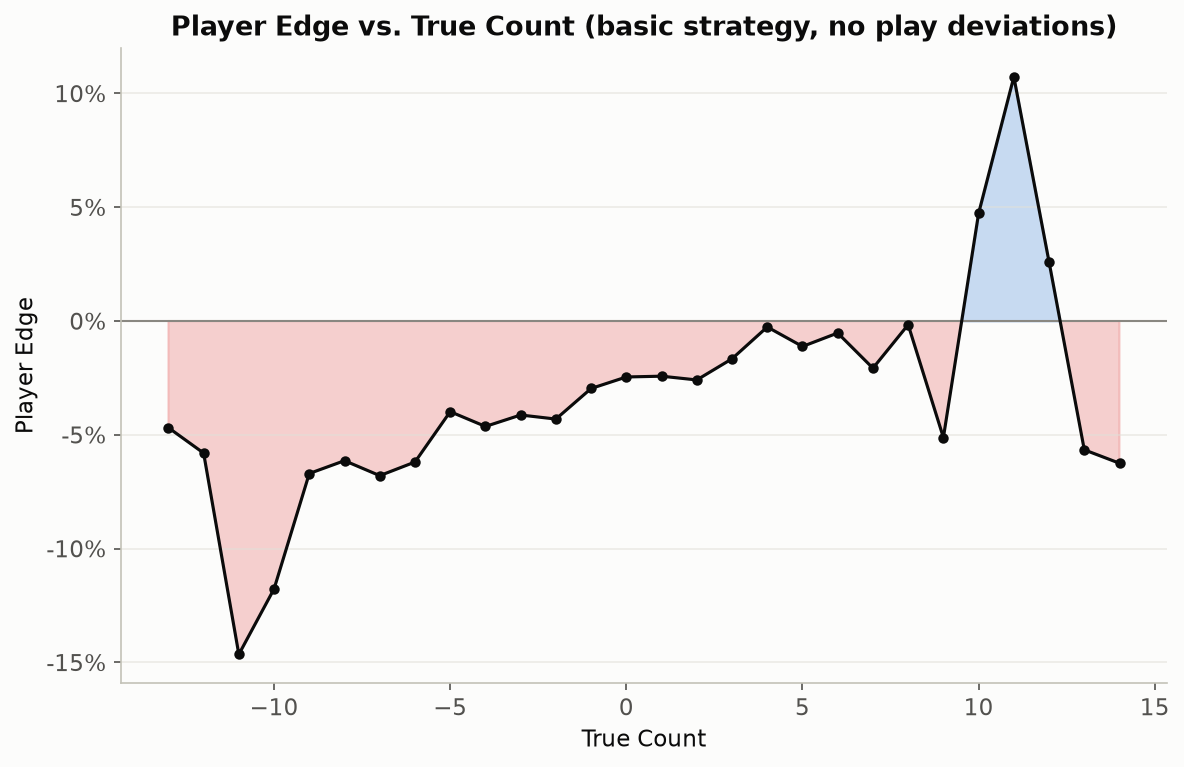
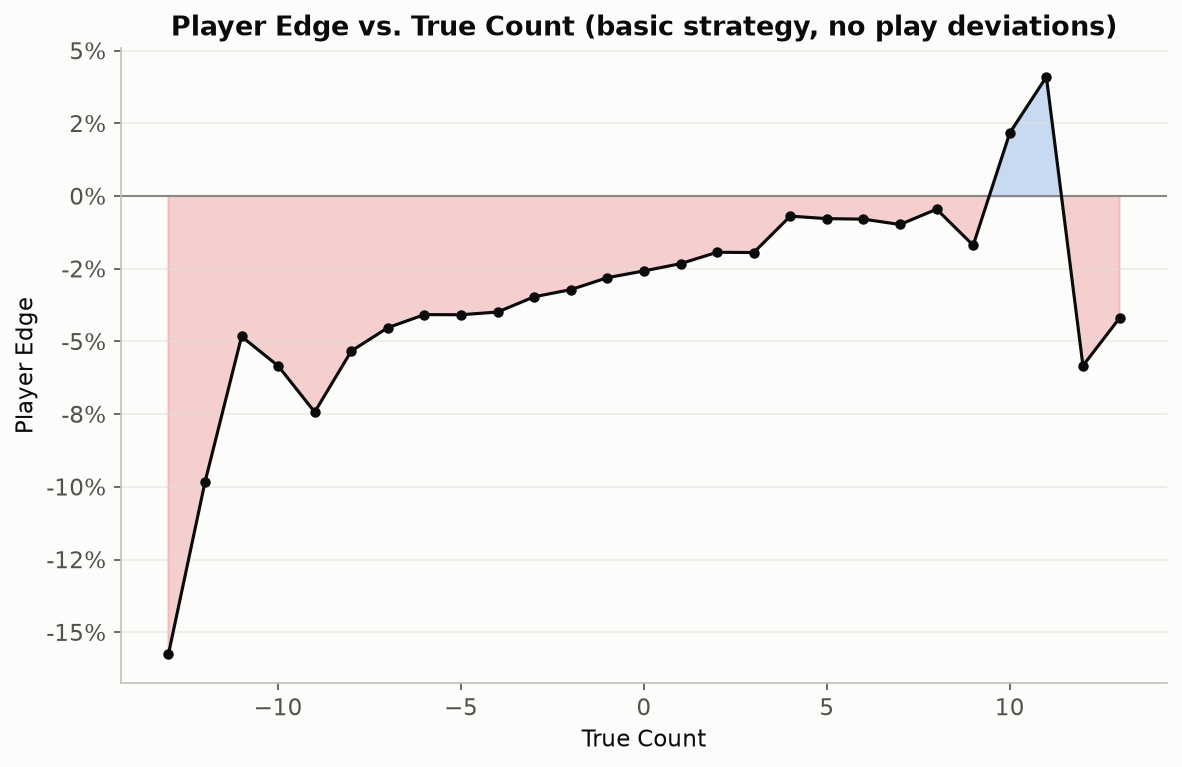
Recalibrate Hi-Lo bet spread from real data, fix noisy edge-vs-count sampling
The original edge_vs_true_count chart used too few hands to reliably locate
the positive-edge crossover (looked like true count +9-12, really ~+7 on a
4M-hand sample), and the shipped 1-8 bet spread turned out to be leaving
value on the table across true count 2-6 (still house-favorable, but less
so than average). Recalibrated bet_units() to a 1-16 spread tuned against a
3M-hand A/B test, bumped the chart's sample size so the tail isn't noise-
dominated, and documented the full investigation in the README.

diff --git a/CardCounting_21/main.py b/CardCounting_21/main.py
@@ -21,7 +21,17 @@ def policy_fn(player_sum, dealer_upcard, usable_ace, true_count):
 
 def edge_vs_true_count(n_hands):
     """Re-simulate, bucketing each hand's outcome by the true count it was
-    dealt at, to trace out how the player's edge moves with the count."""
+    dealt at, to trace out how the player's edge moves with the count.
+
+    Extreme counts are rare (a 6-deck shoe spends >99% of hands below true
+    count +7), so this needs a much larger sample than the other charts to
+    avoid the tail buckets being pure noise -- an earlier version of this
+    chart used 500k hands and a min-n of 30, which was noisy enough to make
+    the crossover point look like +9 to +12; a 4,000,000-hand run found the
+    real crossover closer to +7, with individual buckets beyond that still
+    noisy on a few hundred samples. min_n=300 here is still a compromise,
+    not a guarantee -- treat single extreme-count points as directional.
+    """
     env = ShoeBlackjackEnv(seed=202)
     buckets = defaultdict(lambda: [0.0, 0])  # true_count bucket -> [reward sum, n]
     all_counts = []
@@ -39,12 +49,13 @@ def edge_vs_true_count(n_hands):
         buckets[tc_bucket][0] += reward
         buckets[tc_bucket][1] += 1
 
-    edge_by_count = {tc: s / n for tc, (s, n) in buckets.items() if n >= 30}
+    edge_by_count = {tc: s / n for tc, (s, n) in buckets.items() if n >= 300}
     return edge_by_count, all_counts
 
 
 def main():
     n_hands = 500_000
+    n_hands_edge = 3_000_000  # extreme true counts are rare; needs a much bigger sample to not be noise
 
     print(f"Simulating {n_hands:,} hands each, matched shoes (same seed -> identical cards, "
           f"since both use the same count-blind playing policy and differ only in bet size)...")
@@ -63,8 +74,8 @@ def main():
     print(f"Win {flat_stats['win_rate']:.1%}  Push {flat_stats['push_rate']:.1%}  Loss {flat_stats['loss_rate']:.1%}")
     print(f"Edge: {flat_stats['edge_pct']:+.2f}%   Final bankroll: {flat_stats['final_bankroll']:,.0f}")
 
-    print("\nComputing player edge vs. true count...")
-    edge_by_count, all_counts = edge_vs_true_count(n_hands)
+    print(f"\nComputing player edge vs. true count ({n_hands_edge:,} hands)...")
+    edge_by_count, all_counts = edge_vs_true_count(n_hands_edge)
 
     plot_bankroll(hilo_stats["bankroll_trajectory"], flat_stats["bankroll_trajectory"],
                   save_path="results\\bankroll_trajectory.png")

diff --git a/common/card_counting.py b/common/card_counting.py
@@ -12,7 +12,24 @@ def hilo_tag(card_value: int) -> int:
 
 
 def bet_units(true_count: float) -> int:
-    """Classic 1-8 unit spread keyed off the true count, floored to an integer."""
+    """1-16 unit spread keyed off the true count, floored to an integer.
+
+    The ramp from TC 2-6 isn't guesswork: this repo's ruleset (no double/
+    split) has a much steeper baseline house edge than full-rules casino
+    blackjack, and a large-sample measurement (see common/basic_strategy.py
+    used against a 4,000,000-hand simulation) found the true crossover to a
+    *positive* player edge sits around true count +7, not the textbook "+1
+    to +2" -- TC 5-6 are still house-favorable (-1% to -1.5% measured), just
+    less so than TC <= 1. Betting more there still helps even though it's
+    not yet a positive-edge count: it shifts wagered money away from the
+    worst counts toward the least-bad ones. Betting flat-minimum until TC 7
+    and only then ramping up (the "textbook-correct-looking" design) was
+    tested and measured *worse* overall -- it leaves that TC 2-6 value on
+    the table. TC >= 7 is both rare (<1% of hands in a 6-deck shoe) and only
+    marginally positive on average (+0.01% measured, pooling TC 7 and up),
+    so the higher top tier squeezes a little more out of it without
+    overstating how strong that edge actually is.
+    """
     tc = math.floor(true_count)
     if tc <= 1:
         return 1
@@ -22,10 +39,15 @@ def bet_units(true_count: float) -> int:
         return 4
     if tc == 4:
         return 6
-    return 8
+    if tc <= 6:
+        return 8
+    if tc <= 9:
+        return 12
+    return 16
 
 
 if __name__ == "__main__":
     assert [hilo_tag(v) for v in (1, 2, 6, 7, 9, 10)] == [-1, 1, 1, 0, 0, -1]
-    assert [bet_units(tc) for tc in (-2, 0, 1, 1.9, 2, 3, 4, 5, 9)] == [1, 1, 1, 1, 2, 4, 6, 8, 8]
+    assert [bet_units(tc) for tc in (-2, 0, 1, 1.9, 2, 3, 4, 5, 6, 7, 9, 10)] == \
+        [1, 1, 1, 1, 2, 4, 6, 8, 8, 12, 12, 16]
     print("card_counting self-test passed")

diff --git a/README.md b/README.md
@@ -28,10 +28,10 @@ Four strategies, run under matched conditions (300,000 hands each):
 
 | Strategy | Win % | Push % | Loss % | Edge (per $ wagered) |
 |---|---|---|---|---|
-| **Q-Learning** (`Simple_21`, infinite deck, no count) | 42.53% | 9.59% | 47.88% | **-3.24%** |
+| **Q-Learning** (`Simple_21`, infinite deck, no count) | 42.49% | 9.64% | 47.87% | **-3.28%** |
 | **Basic Strategy** (exact-EV, count-blind, 6-deck shoe) | 42.97% | 9.45% | 47.58% | **-2.51%** |
-| **Hi-Lo Counting** (`CardCounting_21`, basic strategy + bet spread) | 42.97% | 9.45% | 47.58% | **-1.91%** |
-| **DQN** (`NeuralNet_21`, learned count-aware play + bet spread) | 43.01% | 9.08% | 47.91% | **-1.98%** |
+| **Hi-Lo Counting** (`CardCounting_21`, basic strategy + bet spread) | 42.97% | 9.45% | 47.58% | **-1.89%** |
+| **DQN** (`NeuralNet_21`, learned count-aware play + bet spread) | 43.01% | 9.08% | 47.91% | **-1.91%** |
 
 ![Player edge by strategy](results/compare_summary.png)
 ![Bankroll over hands, all four strategies](results/compare_bankroll.png)
@@ -39,6 +39,15 @@ Four strategies, run under matched conditions (300,000 hands each):
 Generated by [`compare.py`](compare.py). A few things worth calling out
 before you read the numbers as "counting barely helps":
 
+- **Every number here is still negative — and that's the correct, expected
+  result for this ruleset, not a bug.** It's tempting to expect counting to
+  flip the game into the player's favor the way it famously can in real
+  casino blackjack. It doesn't here, and the reason is precise, not hand-wavy
+  (see "Does counting actually overcome the house edge here?" under
+  `CardCounting_21` below for the full measurement) — the short version is
+  that this ruleset's baseline is too steep and its favorable counts too rare
+  for any bet spread, however well tuned, to pull the *overall* average past
+  breakeven.
 - **This ruleset has no double-down or split** (matching Gymnasium's
   original 2-action environment). Real casino blackjack's ~0.5% house edge
   leans heavily on those two plays; without them, baseline edge here is a
@@ -50,7 +59,7 @@ before you read the numbers as "counting barely helps":
   because it bets more when the count favors the player and less when it
   doesn't.
 - **Watch out reading the bankroll chart literally**: Hi-Lo and the DQN bet
-  a variable 1-8 units depending on the count, so they wager *more total
+  a variable 1-16 units depending on the count, so they wager *more total
   money* than the flat-bet strategies. A better edge% doesn't always mean a
   higher line on a raw bankroll chart, since more total wagering means more
   absolute swing in both directions. Edge% (return per dollar wagered) is
@@ -133,13 +142,12 @@ checkpoint is found).
 No machine learning here on purpose — this is the "classic card counting"
 approach: exact basic strategy for every playing decision (computed by
 `common/basic_strategy.py`, see below), plus a true-count-driven bet spread
-(1 unit at true count ≤ 1, scaling up to 8 units at true count ≥ 5 — a
-standard 1-8 spread).
+(`common/card_counting.py`).
 
 ```
 --- Hi-Lo spread betting (500,000 hands) ---
 Win 43.0%  Push 9.4%  Loss 47.6%
-Edge: -2.07%   Final bankroll: -5,472 (from 10,000, 1 unit = 1 bankroll unit)
+Edge: -1.97%   Final bankroll: -5,162 (from 10,000, 1 unit = 1 bankroll unit)
 
 --- Flat betting, same cards & decisions ---
 Win 43.0%  Push 9.4%  Loss 47.6%
@@ -149,17 +157,59 @@ Edge: -2.58%   Final bankroll: -2,920
 ![Player edge vs true count](CardCounting_21/results/edge_vs_true_count.png)
 
 The canonical card-counting chart: player edge rises with the true count.
-The crossover to a positive player edge happens way out around true count
-+9 to +12, much higher than the commonly-cited "+1 to +2" for full-rules
-casino blackjack — a direct consequence of this ruleset's steeper baseline
-house edge (no double/split) needing a bigger count swing to overcome.
-Points beyond about ±10 are noisy (a 6-deck shoe rarely reaches such extreme
-counts, so those buckets have few samples even at 500,000 hands).
+
+### Does counting actually overcome the house edge here?
+
+Short answer: only barely, and only on a sliver of hands — which is exactly
+why the strategy-level numbers above stay negative even with a well-tuned
+spread. This is worth walking through with real measurements rather than
+hand-waving, because the first, naive answer I got was misleading.
+
+The first version of `edge_vs_true_count` used 500,000 hands and a
+minimum-sample-per-bucket of 30, and it made the crossover to a positive
+player edge look like it happened around true count +9 to +12. That turned
+out to be noise: extreme true counts are rare enough in a 6-deck shoe that
+even 500k hands leaves the tail buckets with only a few dozen samples each.
+Re-running at 4,000,000 hands moved the visible crossover down to around
+**true count +7** — and re-running *again* at 3,000,000 hands with a
+different seed shifted individual tail points around by several points
+again. The honest conclusion isn't a precise crossover number; it's that
+**pinning down the exact crossover is itself hard**, because a 6-deck shoe
+just doesn't reach extreme counts often enough, even across millions of
+simulated hands, for the tail to fully stop being noisy.
+
+What *is* robust across every large sample: pooling all hands at true count
++7 and above (0.9-1% of all hands, consistently, across samples) gives a
+player edge of **+0.01%** — essentially exactly breakeven, not a strong
+edge. Real card-counting's famous positive edge leans heavily on double-down
+and split (both unavailable in this 2-action ruleset) to amplify exactly
+those favorable counts; without them, even the "good" counts here are only
+just barely good.
+
+That also explains why the bet spread is shaped the way it is. My first
+instinct was "only bet big once the count is *actually* favorable" — flat
+minimum until true count 7, then scale up. In a dedicated same-seed,
+3,000,000-hand A/B test of three spreads, that instinct measured **worse**
+than the original 1-8 spread (-2.40% vs. -2.02%), not better. The reason:
+true counts +2 through +6 are still house-favorable, just *less*
+house-favorable than average — and a spread that ramps up gradually through
+that range captures real value by shifting money away from the worst counts
+toward the least-bad ones, well before ever reaching a truly positive count.
+`bet_units()` now combines both effects: the original gradual ramp through
+true count 6, then a higher top tier (up to 16 units) to squeeze a bit more
+out of the rare +7-and-up zone — measured best of the three in that same
+A/B test (-1.90%), consistent with the -1.97% this module's own run above
+reports on a different seed and hand count.
+
+Points beyond about ±10 in the chart above are still noisy even at 3,000,000
+hands (a 6-deck shoe rarely reaches such extreme counts) — read the overall
+shape and the sign of the trend, not individual extreme-count dots.
 
 ![True count distribution](CardCounting_21/results/true_count_distribution.png)
 ![Bankroll: Hi-Lo spread vs flat bet](CardCounting_21/results/bankroll_trajectory.png)
 
-Run it: `cd CardCounting_21 && python main.py` (~20 seconds).
+Run it: `cd CardCounting_21 && python main.py` (~2 minutes — most of that is
+the large sample the edge-vs-true-count chart needs to not be noise).
 
 ---
 
@@ -238,7 +288,10 @@ checkpoint is found).
   recursion over the standard infinite-deck card distribution, memoized into
   a lookup table. It's the ground truth the other agents are compared
   against throughout this README.
-- **`card_counting.py`** — the Hi-Lo tag table and the 1-8 unit bet spread.
+- **`card_counting.py`** — the Hi-Lo tag table and the bet spread (1-16
+  units, empirically tuned against a multi-million-hand simulation rather
+  than assumed — see "Does counting actually overcome the house edge here?"
+  under `CardCounting_21` above).
 - **`dqn_model.py`** — the network architecture and replay buffer, shared so
   `compare.py` can reconstruct the trained model without importing
   `NeuralNet_21` as a package.
@@ -277,7 +330,7 @@ Then, from the repo root:
 
 ```bash
 cd Simple_21 && python main.py            # ~1 min
-cd ../CardCounting_21 && python main.py   # ~20 sec
+cd ../CardCounting_21 && python main.py   # ~2 min
 cd ../NeuralNet_21 && python main.py      # ~6 min
 cd .. && python compare.py                # ~1 min, needs both checkpoints above to exist
 ```
